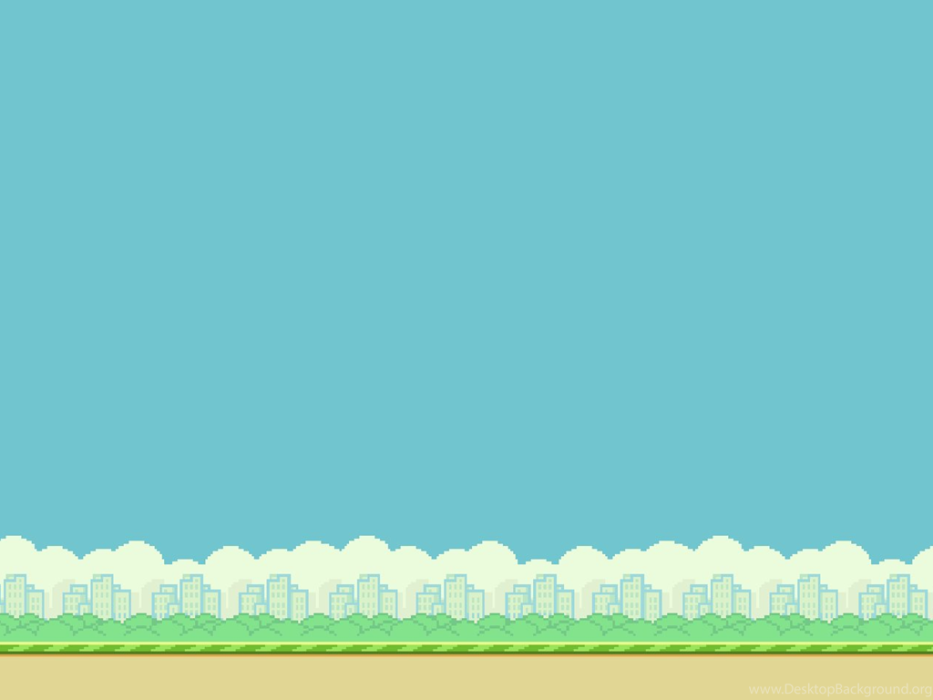
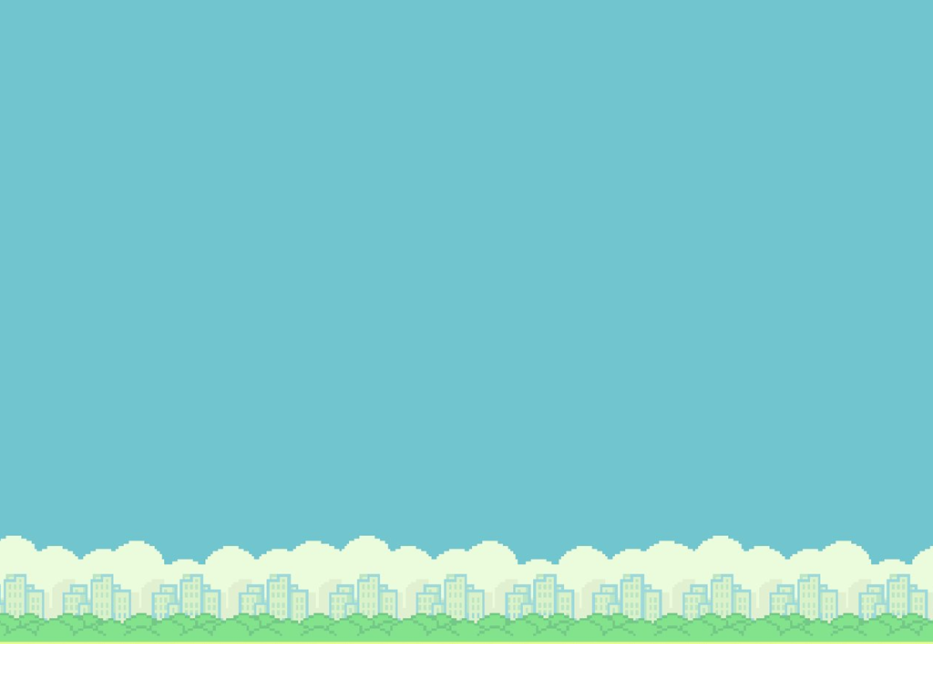
Collision du joueur avec les tuyaux #61

Changed region(s): [[0.0, 0.9, 1.0, 1.0]]

diff --git a/flappybird/scripts/game/Game.js b/flappybird/scripts/game/Game.js
@@ -38,13 +38,13 @@ export default function initGame() {
 
   requestAnimationFrame(loopGame);
 }
-
-
+var moveFloor = 0;
 
 function loopGame() {
-
+  moveFloor -= 4;
   // Efface le canvas
   ctx.clearRect(0, 0, canvas.width, canvas.height);
+
 
   // Fait défiler l'arrière-plan
   scrollBackground();
@@ -52,6 +52,8 @@ function loopGame() {
   createPlayer();
   // Crée les tuyaux
   createPipes();
+
+  ctx.drawImage(assets.floorImg, 0 + moveFloor, 644, 1000, 56);
 
   requestAnimationFrame(loopGame);
 
@@ -77,6 +79,7 @@ function scrollBackground() {
 function createPipes() {
   // Récupère l'image du tuyau
   const pipeImg = assets.pipeImg;
+  const pipe2Img = assets.pipe2Img;
 
   const GENERATE_PIPE_TIME_MAX = random(40, 50);
 
@@ -84,8 +87,12 @@ function createPipes() {
 
   // Crée un tuyau
   if (generatePipeTime >= GENERATE_PIPE_TIME_MAX) {
-    yPipe = (random(100, 400)) * -1;
+    yPipe = (random(500, 200)) * -1;
+
     pipe[pipe.length] = new Pipe(ctx, pipeImg, new Vector2(xPipe, yPipe), 100, 575);
+    pipe[pipe.length] = new Pipe(ctx, pipe2Img, new Vector2(xPipe, yPipe + 575 + 180), 100, 575);
+
+
     xPipe += random(200, 300);
 
     generatePipeTime = 0;
@@ -97,6 +104,14 @@ function createPipes() {
     pipe[i].draw();
     // Déplace les tuyaux
     pipe[i].move();
+    // Collision du joueur avec les tuyaux
+    pipe[i].collision(player.getX(), player.getY())
+  }
+
+
+  ctx.drawImage(assets.floorImg, 1000 + moveFloor, 644, 1000, 56);
+  if (moveFloor == -1000) {
+    moveFloor = 0;
   }
 
 }

diff --git a/flappybird/scripts/game/Pipe.js b/flappybird/scripts/game/Pipe.js
@@ -1,20 +1,28 @@
-export class Pipe{
-    constructor(ctx, img, position, width, height){
+export class Pipe {
+    constructor(ctx, img, position, width, height) {
         this.ctx = ctx;
         this.img = img;
         this.position = position;
-        this.width = width; 
+        this.width = width;
         this.height = height;
     }
 
     // Dessine les tuyaux
-    draw(){
+    draw() {
         this.ctx.drawImage(this.img, this.position.x, this.position.y, this.width, this.height);
     }
 
     // Déplace les tuyaux
-    move(){
-         this.position.x -= 4;
+    move() {
+        this.position.x -= 4;
+    }
+
+    // Collision du joueur avec les tuyaux
+    collision(playerX, playerY) {
+        if (playerX > this.position.x && playerX < this.position.x + this.width
+            && playerY > this.position.y && playerY < this.position.y + this.height) {
+            console.log('ok');
+        }
     }
 
 }

diff --git a/flappybird/scripts/game/Assets.js b/flappybird/scripts/game/Assets.js
@@ -4,3 +4,9 @@ playerImg.src = "assets/game/flappy_bird.png";
 
 export var pipeImg = new Image(100,575);
 pipeImg.src = "assets/game/pipe.png";
+
+export var pipe2Img = new Image(100,575);
+pipe2Img.src = "assets/game/pipe2.png";
+
+export var floorImg = new Image(933,56);
+floorImg.src = "assets/game/floor.png"

diff --git a/flappybird/scripts/game/Player.js b/flappybird/scripts/game/Player.js
@@ -108,6 +108,14 @@ export class Player {
             this.isJumping = false;
         }
     }
+
+    getX(){
+        return this.position.x;
+    }
+
+    getY(){
+        return this.position.y;
+    }
 }
 
 
